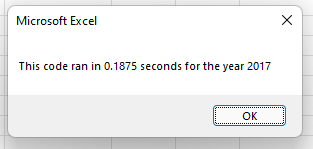
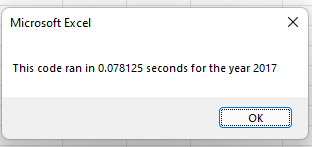
Added written analysis

Changed region(s): [[0.0, 0.0, 1.0, 1.0]]

diff --git a/Submission/README.md b/Submission/README.md
@@ -1,1 +1,48 @@
 # stock-analysis
+
+## Overview of Project
+
+The purpose of this project was to utilize VBA to automate analysis on the total annual volume and percentage return of twelve stocks across 2017 and 2018. The daily closing price & volume of each ticker were the data points that were used in this analysis, but the dataset also included other daily pricing information - including daily highs, lows, and opening price. 
+
+## Results
+
+### 2017 Results
+
+![2017 returns] (https://raw.githubusercontent.com/tbrech4/stock-analysis/main/Resources/2017_Returns.png)
+
+In 2017, all but one of the selected stocks - $TERP - had a positive return. The best performing stock was $DQ, returning almost 200% in 2017 - this is a very impressive single year gain. $DQ also had the lowest total yearly volume of all 12 stocks, however there isn't evidence of a relationship between volume and returns as the other stocks that returned over 100% were also traded very frequently.
+
+If you were to invest $10,000 in each of the twelve stocks at the beginning of 2017, you would have had a 67% gain. 
+
+### 2018 Results
+
+2018 was a rough year for the selected stocks. Only 17% of the selected stocks had a positive return. The biggest losers were $DQ and $JKS, both losing over 50% of their value in 2017. DQ proved to be a very volatile stock between 2017 and 2018 as it was the best performing stock in 2017, and one of the worst performing stocks in 2018.
+
+![2018 returns] (https://raw.githubusercontent.com/tbrech4/stock-analysis/main/Resources/2018_Returns.png)
+
+If you would have kept the original 10,000 you invested in each of the twelve stocks at the beginning of 2017, you would now have a 48% return over the two-year period. However, your portfolio would have dropped 11% in 2018.
+
+### Execution times of refactored code
+
+Refactoring the code led to a dramatic speed increase. For example, the 2017 code ran in .0078 seconds after refactoring the code. This is 620% faster than the original code took to ran (about half a second).
+
+![2017 code time] (https://github.com/tbrech4/stock-analysis/blob/main/Resources/2017_Runtime.png)
+
+The speed increase when analyzing 2018 data was very similar. This makes sense since both years had the same amount of data (3013 lines of data).
+
+## Summary
+
+### Advantages / Disadvantages of refactoring code
+
+One of the biggest advantages of refactoring code is potential to make code optimized and run faster. Another advantage is that your code could possibly be cleaner and better structured after refactoring.
+
+The disadvantage is that you could potentially create new bugs, or even break the code. "If it ain't broke, don't fix it" is a saying that comes to my mind here - trying to fix code to make it run better could lead to the code not working at all. Luckily with proper version control, you should be able to always go back to versions of the code where everything ran correctly.
+
+### Pros / Cons of refactoring the original VBA script
+
+The main advantage of refactoring the VBA script was the huge speed increase that was observed. The original code only took about half a second to run, but the new code managed to improve speeds by 600%. 
+
+If there were 100 stocks and 200,000 lines of data, then the difference in timing would be much more tangible to the user.
+
+I don't think there were really any cons to refactoring the code in this specific example since I was able to get the refactored code running correctly. 
+
